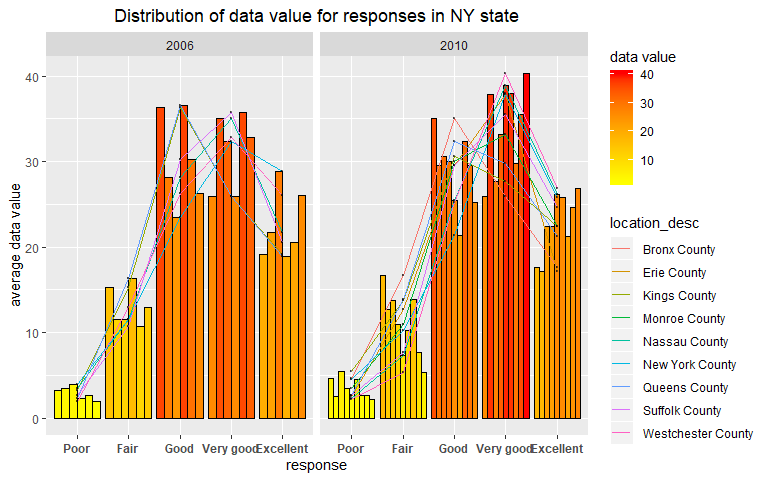
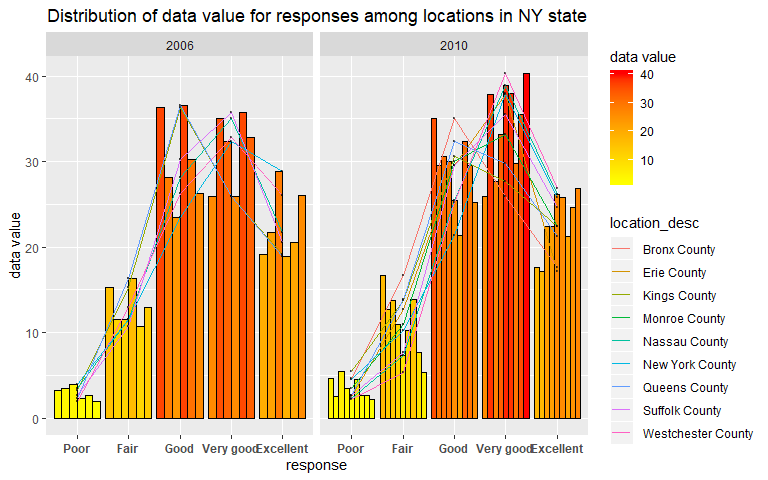
Add some comment on graph

Changed region(s): [[0.0625, 0.0, 0.7812, 0.0625], [0.0, 0.375, 0.0312, 0.6562]]

diff --git a/p8105_hw3_fj2269.md b/p8105_hw3_fj2269.md
@@ -66,10 +66,11 @@ fresh vegetables*
 ![](p8105_hw3_fj2269_files/figure-gfm/Q1S3-1.png)<!-- -->
 
 *There are 39 aisles that meet our requirement. If we rank the aisles
-with more than 10000 orders, we will see the count of orders
-exponentially grows as the rank increases. The higher the rank is, the
-faster the count grows. And two aisle, fresh fruits and fresh
-vegetables, have highest counts and exceed other asiles.*
+with more than 10000 orders, we will see the product count of orders
+exponentially grows as the rank rises. Higher the rank of an aisle is,
+greater the gap of count between it and aisle with bigger rank. And top2
+aisle, fresh fruits and fresh vegetables, have highest product counts
+and exceed other asiles.*
 
 **Step 4: make a table showing the three most popular items and ordered
 number in “baking ingredients”, “dog food care”, and “packaged
@@ -109,7 +110,7 @@ week**
 
 *The sell of coffee ice cream increases from Monday to Tuesday and
 remains in a high level from Tuesday to Thurday, on Friday it decreases
-,reaches the lowest level and remains a steady low level from Friday to
+,reaches the lowest point and remains a steady low level from Friday to
 Sunday. During the middle of the week, people like to buy coffee ice
 cream and as for weekend, they do not.*
 
@@ -174,15 +175,24 @@ state**
 
 ![](p8105_hw3_fj2269_files/figure-gfm/Q2S3SS2-1.png)<!-- -->
 
-*As for a single state, the data value always fluctuates irregularly as
-time passes. And I cannot find out increase or decrease of data value
-across states as time passes. The level of data value remain stable
-globally as year pass.*
+*At the individual level, the average data value of a state always
+fluctuates irregularly as time passes. And we cannot find regulation of
+average data value if we only observe value change across time in
+different state separately. An the level of state as a whole, The
+average data value remain stable as year pass globally .*
 
 **Step 4: make a plot showing distribution of data value for responses
-in NY state**
+among locations in NY state**
 
 ![](p8105_hw3_fj2269_files/figure-gfm/Q2S4-1.png)<!-- -->
+
+*The distribution of data value for response in 2006 and 2010 are
+similar among location in NY state. Poor responce has the lowest data
+value, data value of fair response ranks last but one among value of
+different responses. data value of Good and very good response are
+highest, in some location, data value of good response is higher than
+that of very good response, in others it is opposite. Excellent reponse
+has the third highest data value.*
 
 ### Question 3
 
@@ -219,7 +229,7 @@ accelerometer data from a 63 year-old male.*
 *As for variable: Week means the week that activity counts is recorded.
 Day means which day of the week that activity counts is recorded. Minute
 means the minute of day that activity counts is recorded. Day\_id means
-id of the daysm. Activity\_value means the activity counts value.*
+id of the day. Activity\_value means the activity counts value.*
 
 **Step 2: Make a table showing the total activity variable for each
 day**
